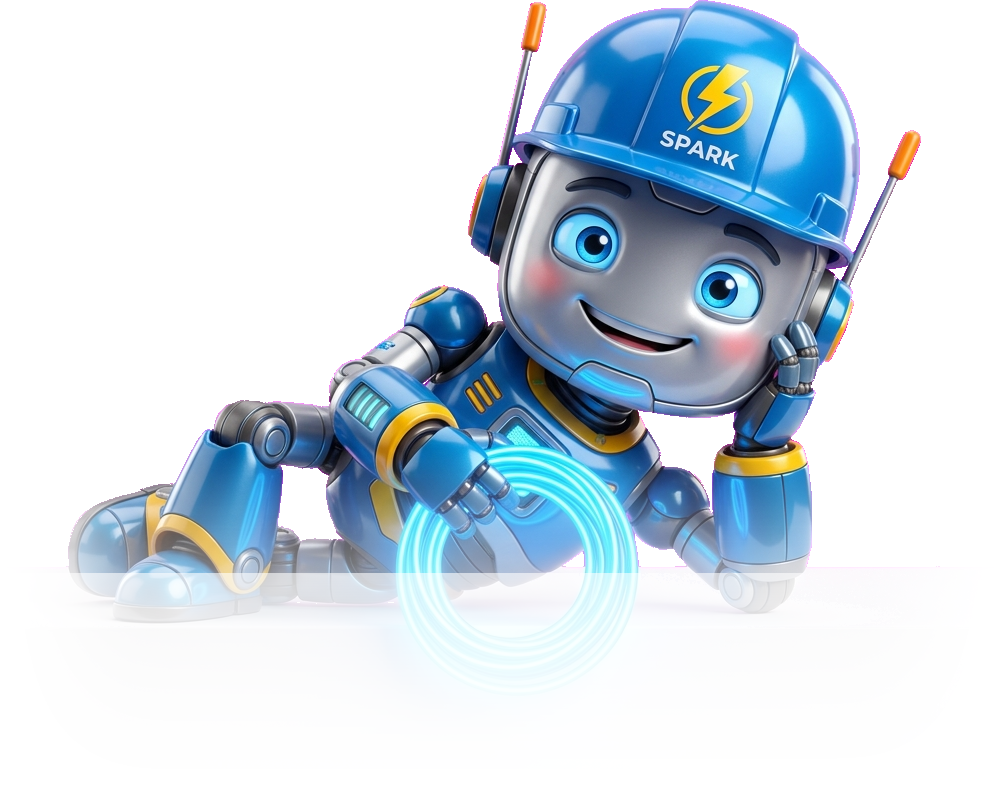
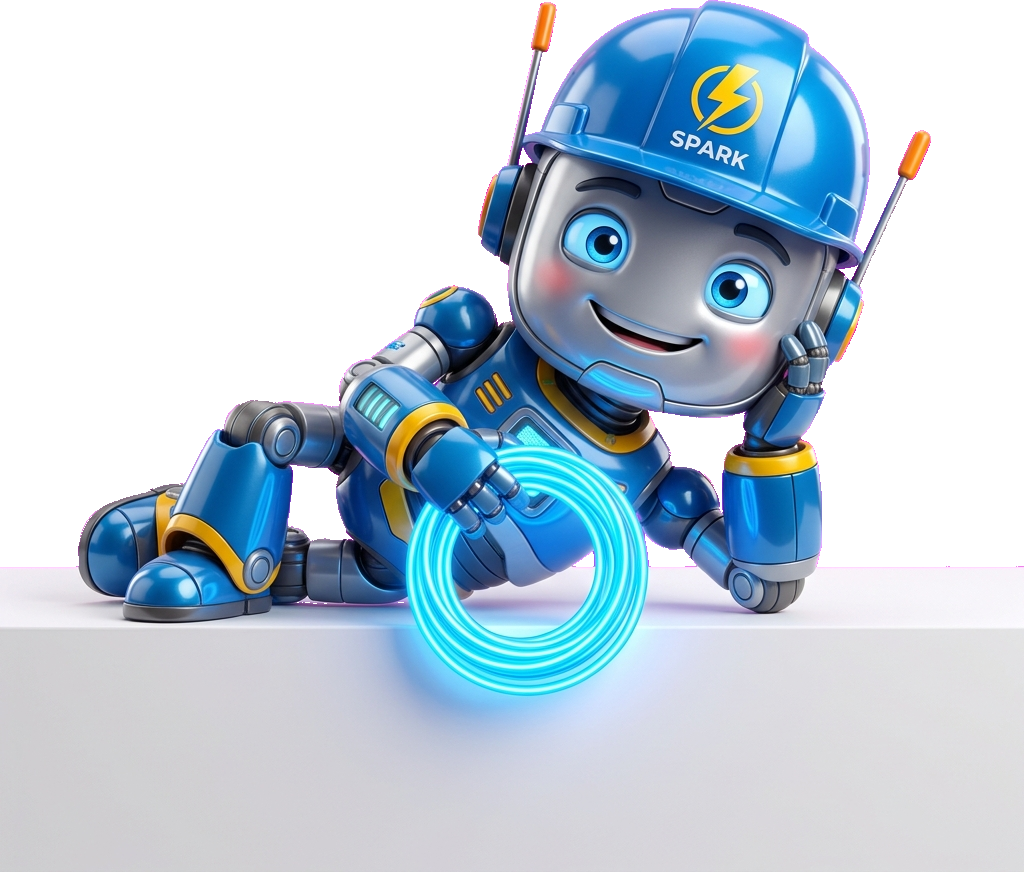
restore_full_opacity_to_mascot_body_and_raise_elbow_position_to_top_border

diff --git a/src/components/catalog/guided-wizard-modal.tsx b/src/components/catalog/guided-wizard-modal.tsx
@@ -240,8 +240,8 @@ export default function GuidedWizardModal() {
         className="relative w-full max-w-4xl bg-surface-white border border-border rounded-2xl shadow-2xl overflow-visible flex flex-col max-h-[85vh] my-0"
         onClick={(e) => e.stopPropagation()}
       >
-        {/* 3D Mascot Character - LYING POSE PERFECTLY ALIGNED 6-7PX PRECISION ON MODAL BORDER */}
-        <div className="absolute -top-[77px] sm:-top-[101px] right-6 sm:right-10 pointer-events-none hidden sm:block z-50 transition-transform hover:scale-105">
+        {/* 3D Mascot Character - FULL OPAQUE LYING POSE RAISED FOR EXACT ELBOW BORDER RESTING */}
+        <div className="absolute -top-[94px] sm:-top-[122px] right-6 sm:right-10 pointer-events-none hidden sm:block z-50 transition-transform hover:scale-105">
           <img 
             src="/images/ai-mascot-peeking.png" 
             alt="AI Electrician Mascot" 
